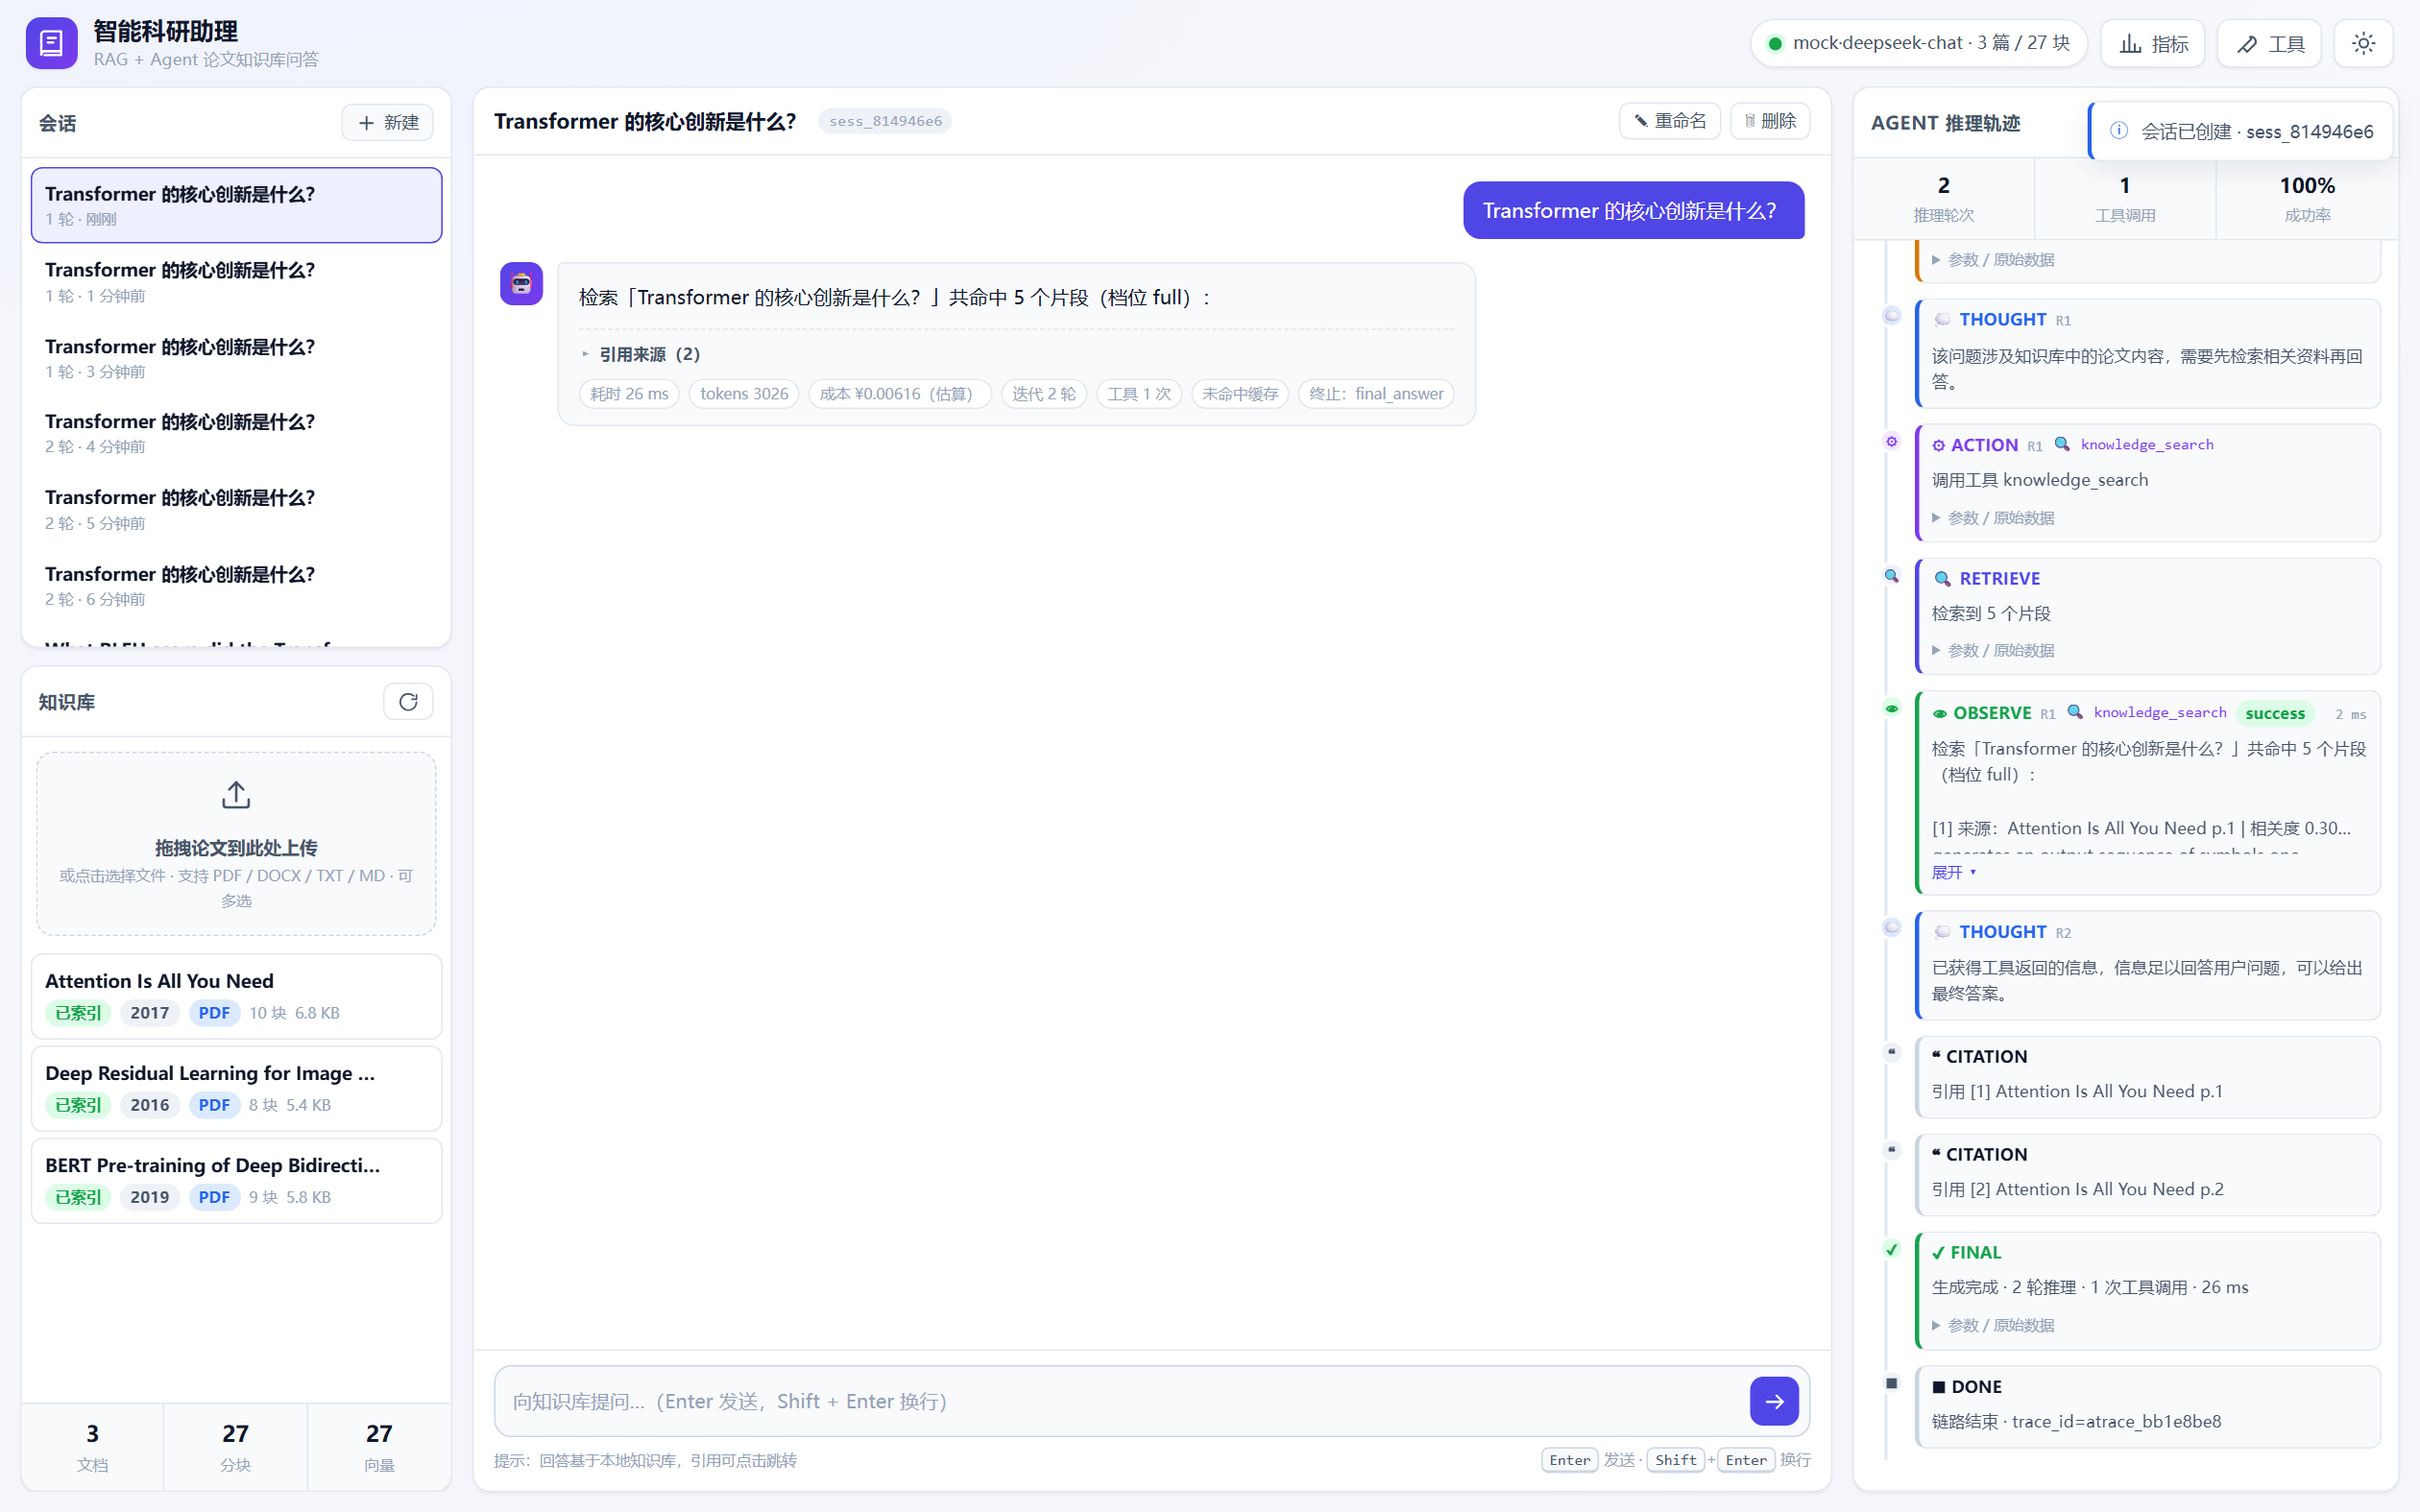
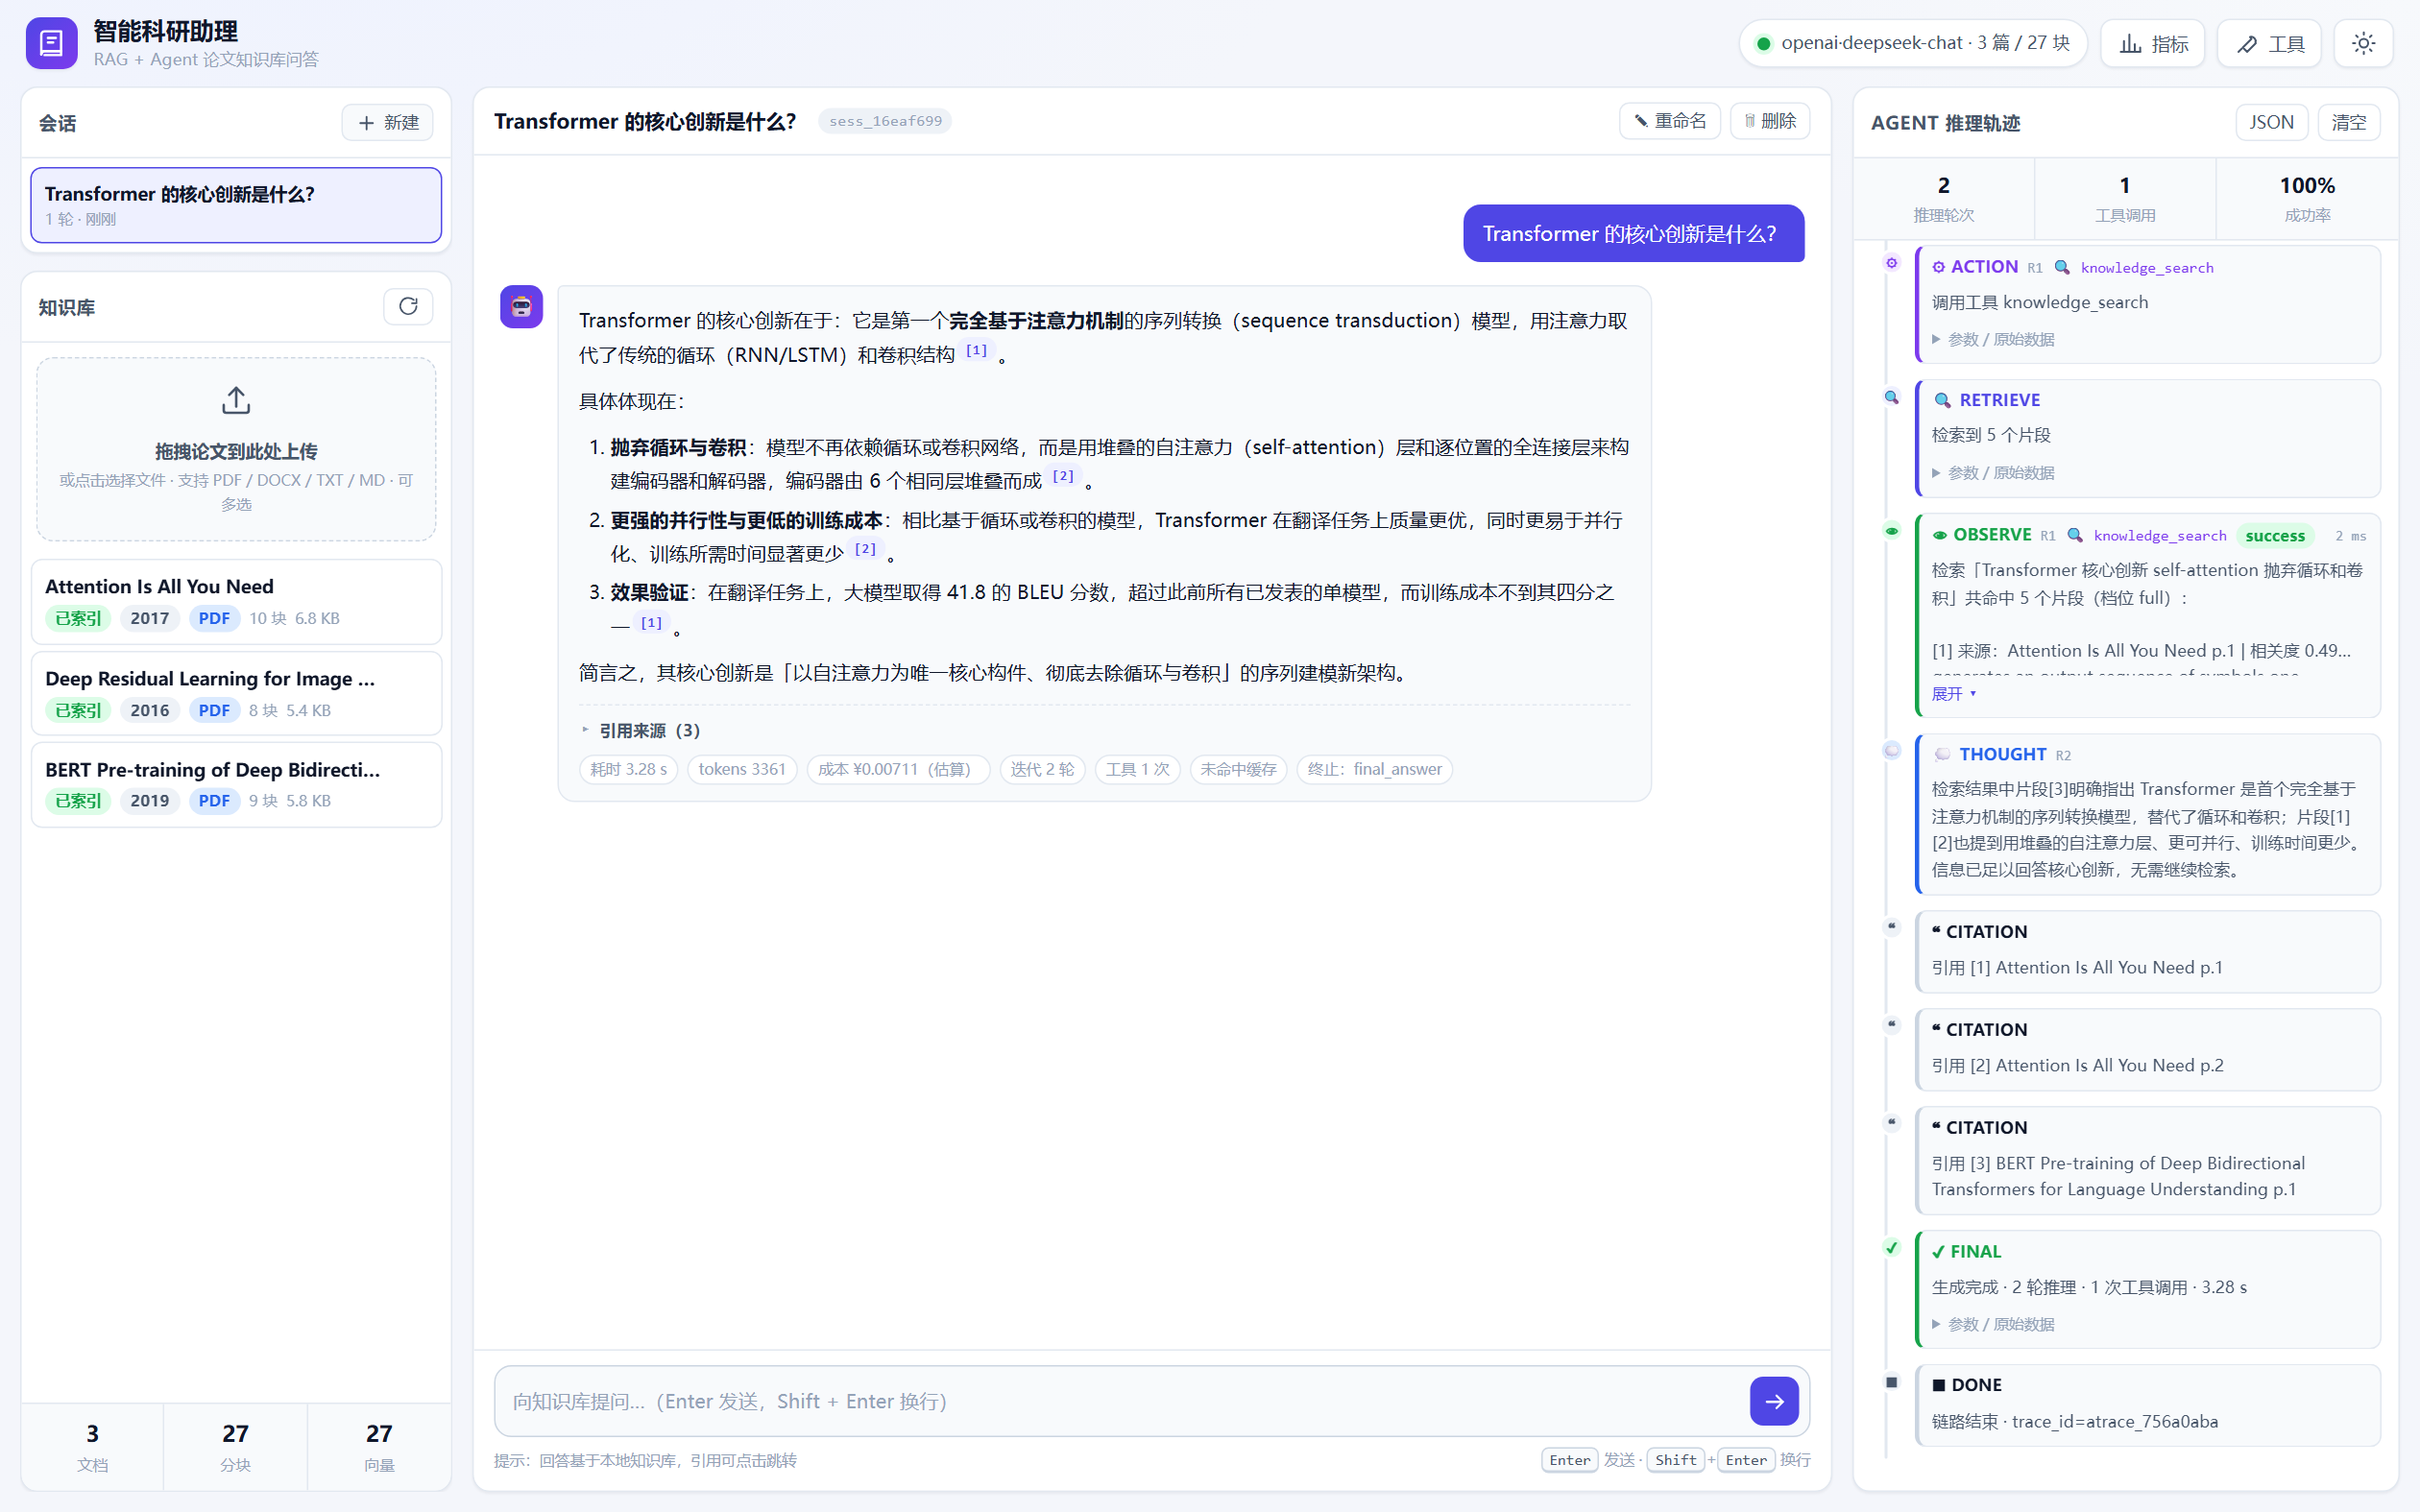
docs(manual): 用户使用手册与 5 张界面截图同步更新
手册侧：
- 「完全离线可用」改为如实的「数据不出本机」：论文与索引只在本地 data/，
  检索/向量库/重排全在本地，但生成调用的是在线大模型接口；
- 明确出厂默认是 DeepSeek 在线模式（config.yaml 已写好 provider/model），
  mock 与 ollama 作为完全离线的替代方案；
- 2.2 补「先用内置样例论文跑通全流程」（bootstrap.py --index，3 篇 / 27 分块）；
- 启动横幅与「浏览器自动打开 / --no-open」的新行为、空状态引导的新文案。

截图：5 张界面图按新界面重新截取（01 主界面、02 引用与轨迹、03 多轮追问、
04 工具清单、05 运行指标面板）。

diff --git a/docs/用户使用手册.md b/docs/用户使用手册.md
@@ -30,7 +30,7 @@
 | **找不到就说找不到** | 知识库里没有相关内容时，系统会明确告知，而不是凭印象编造 |
 | **推理过程可见** | 右侧面板展示 Agent 完整的 `思考 → 调用工具 → 观察结果` 轨迹，你能看到它是怎么一步步得出结论的 |
 | **能对比多篇论文** | 内置论文对比工具，可对照方法、数据集、实验结果 |
-| **完全离线可用** | 默认配置下不访问任何外部服务，不需要 API Key，不上传你的论文 |
+| **数据不出本机** | 论文只保存在本机 `data/` 目录，不上传到任何云端；调用的只是在线的**大模型**接口（默认 DeepSeek），检索、索引、向量库全部在本地 |
 
 ---
 
@@ -76,12 +76,19 @@ python run.py
 ```
 
 首次运行会自动创建所需的数据目录（`data/`、`logs/`、`reports/`），并在控制台打印启动横幅与服务地址。
+此时知识库是空的，上传自己的论文即可（见 [5.1](#51-完整流程从上传论文到拿到带引用的答案)）。
+
+> **想先用内置样例论文跑通全流程**（Transformer / ResNet / BERT 三篇，共 27 个分块）：
+> 执行 `python scripts/bootstrap.py --index`，它会生成样例 PDF 并自动建立索引。
+> 样例论文与索引是纯运行时数据（在 `.gitignore` 里），可随时删除重建。
 
 ### 2.3 两种运行模式
 
-系统支持两种模式，通过 `config.yaml` 的 `llm.provider` 切换：
+系统支持三种模式，通过 `config.yaml` 的 `llm.provider` 切换。
+**出厂默认是模式 C（DeepSeek 在线大模型）** —— 即 `config.yaml` 里已经写好 `provider: openai`
++ `model: deepseek-chat`，配一个 API Key 就能用；模式 A / B 是完全离线可选的替代方案。
 
-#### 模式 A：零依赖离线模式（默认，开箱即用）
+#### 模式 A：零依赖离线模式（`provider: mock`，无需任何外部服务）
 
 ```yaml
 llm:
@@ -194,20 +201,34 @@ python run.py
 输出示例：
 
 ```
-============================================================
-  智能科研助理 —— 基于 RAG + Agent 的论文知识库问答系统
-============================================================
-  LLM       : mock (qwen2.5:7b)
-  Embedding : hash (bge-large-zh, dim=512)
-  知识库    : 0 篇文档 / 0 个分块
-------------------------------------------------------------
-  Web 界面  : http://127.0.0.1:8501
-  健康检查  : http://127.0.0.1:8501/api/health
-  按 Ctrl+C 停止服务
-============================================================
+══════════════════════════════════════════════════════════════════════
+  智能科研助理 —— 基于 RAG + Agent 的论文知识库问答系统  v1.0.0
+══════════════════════════════════════════════════════════════════════
+  LLM 服务    : openai/deepseek-chat ✔
+  Embedding   : hash/bge-large-zh (dim=512)
+  向量库      : numpy · 27 向量
+  知识库      : 3 篇文档 / 27 个片段
+  对话记忆    : sqlite · 1 个会话
+  语义缓存    : sqlite
+══════════════════════════════════════════════════════════════════════
 ```
 
-浏览器打开 `http://127.0.0.1:8501` 即可。若端口 8501 被占用，系统会**自动顺延**到下一个可用端口，并在横幅中打印实际地址。
+界面服务启动横幅：
+
+```
+══════════════════════════════════════════════════════════════════════
+  智能科研助理 已启动
+    界面地址: http://127.0.0.1:8501
+    健康检查: http://127.0.0.1:8501/api/health
+    按 Ctrl+C 停止服务
+══════════════════════════════════════════════════════════════════════
+```
+
+**浏览器会自动打开** `http://127.0.0.1:8501`（这就是为什么启动后不用手动点链接）。
+若端口 8501 被占用，系统会**自动顺延**到下一个可用端口，并在横幅中打印实际地址。
+
+不适合弹浏览器的场合会自动跳过：Docker 容器、无桌面环境，或设了环境变量
+`APP_NO_BROWSER=1`。也可以直接加参数 `--no-open` 只启动服务。
 
 ### 3.2 全部命令行参数
 
@@ -221,7 +242,8 @@ python run.py --help
 | `--port PORT` | 监听端口（默认 8501，被占用时自动顺延） | `--port 8600` |
 | `--config CONFIG` | 指定配置文件路径 | `--config ./my.yaml` |
 | `--cli` | 启动命令行交互模式 | `python run.py --cli` |
-| `--open` | 启动后自动打开浏览器 | `python run.py --open` |
+| `--open` | 启动后自动打开浏览器（**已经是默认行为**，保留以兼容旧命令） | `python run.py --open` |
+| `--no-open` | 启动后不打开浏览器（Docker / 无桌面环境会自动跳过） | `python run.py --no-open` |
 | `--list-tools` | 列出全部已注册工具后退出 | `python run.py --list-tools` |
 | `--health` | 打印健康检查结果后退出 | `python run.py --health` |
 | `--index PATH` | 导入指定文件或目录后退出 | `python run.py --index ./data/samples` |
@@ -311,7 +333,7 @@ python run.py --health --json  # 机器可读格式（便于接入监控）
 | 降级提示条 | 检索无结果或相关度过低时，回答上方会出现黄色提示条，说明降级原因 |
 | 输入框 | `Enter` 发送，`Shift + Enter` 换行；支持多行长问题 |
 | **发送** / **停止** 按钮 | 生成过程中「发送」变为「停止」，可随时中断流式输出 |
-| 空状态引导 | 知识库为空时显示引导卡片，提示先上传论文或一键导入样例 |
+| 空状态引导 | 会话没有消息时（新建 / 切换到空会话）显示引导卡片与 4 个示例问题；正文会随知识库状态变化 —— 空库提示先上传论文，已有文档则提示直接提问 |
 
 ### 4.4 右侧栏（Agent 推理轨迹）
 
